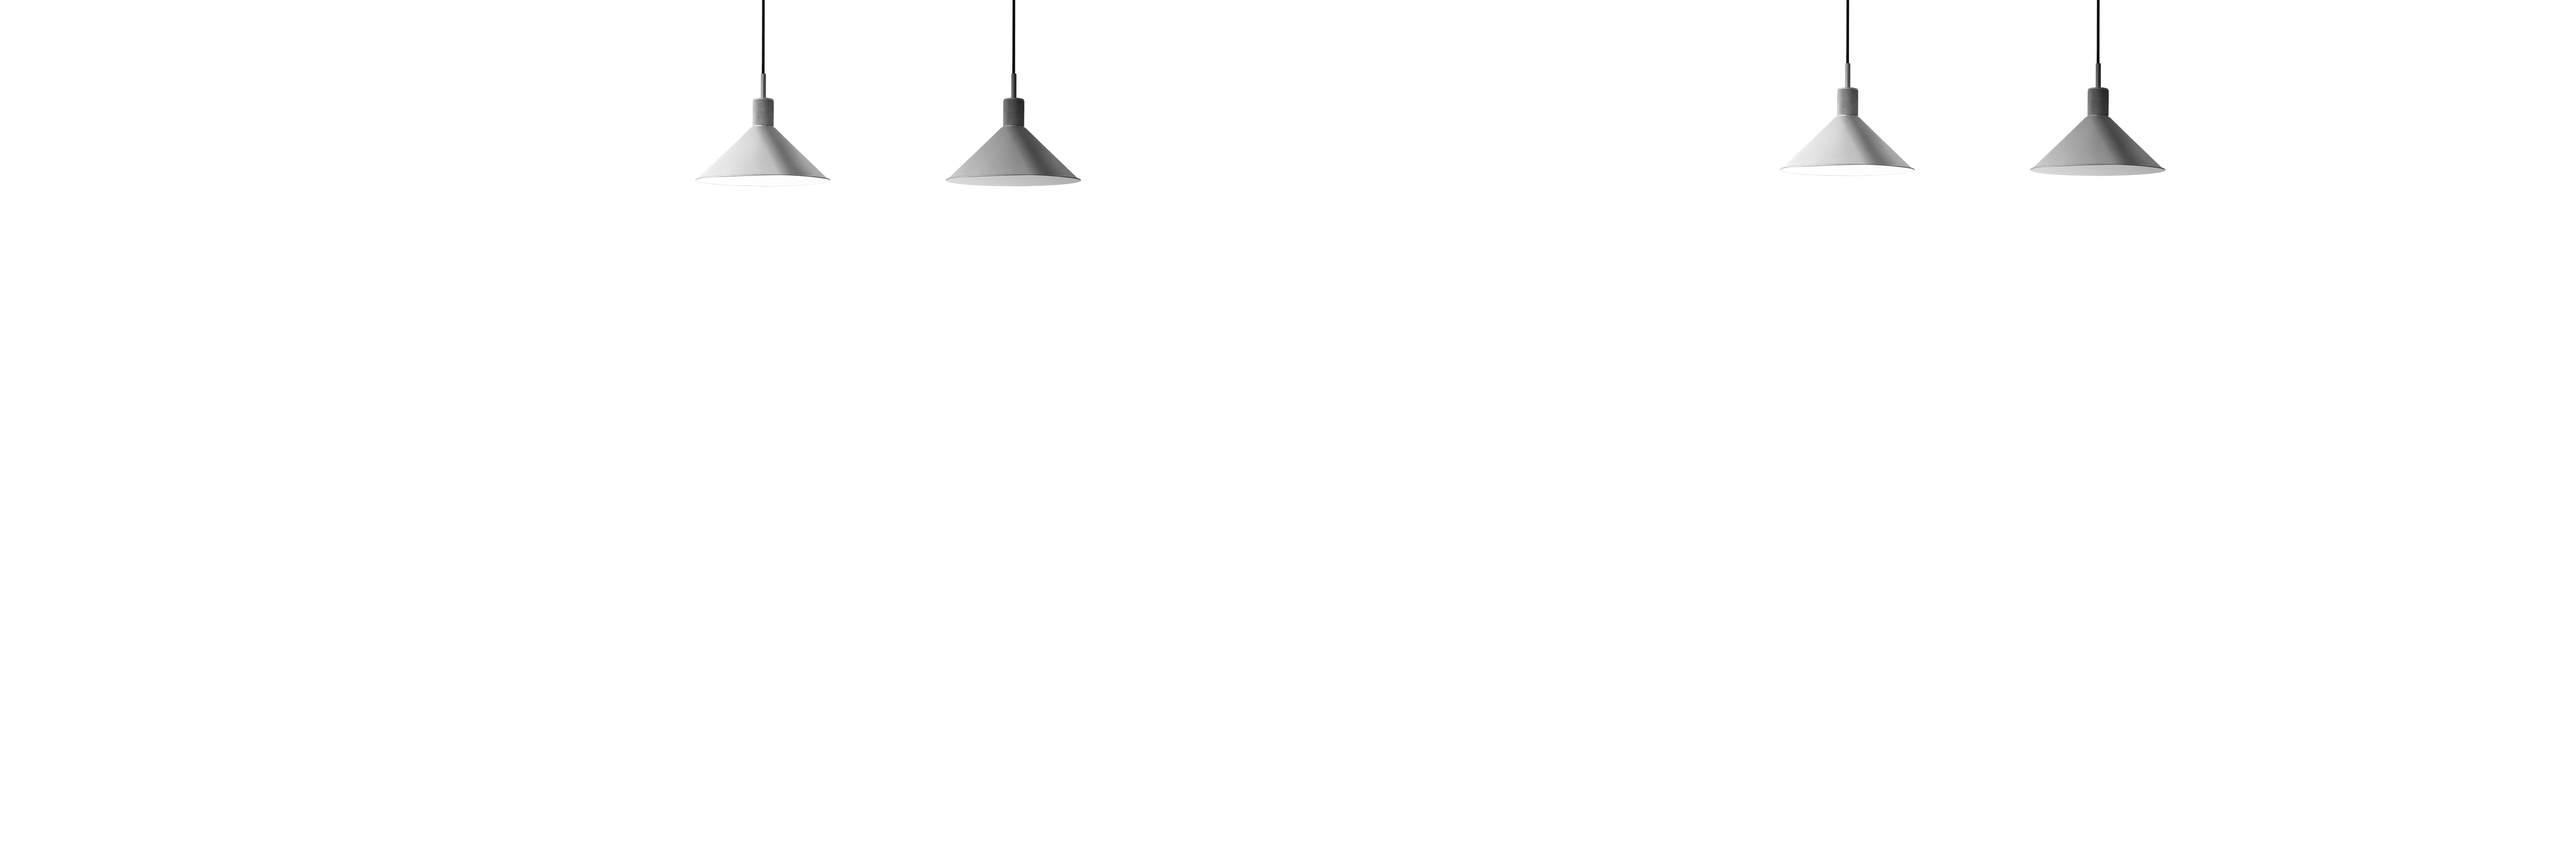
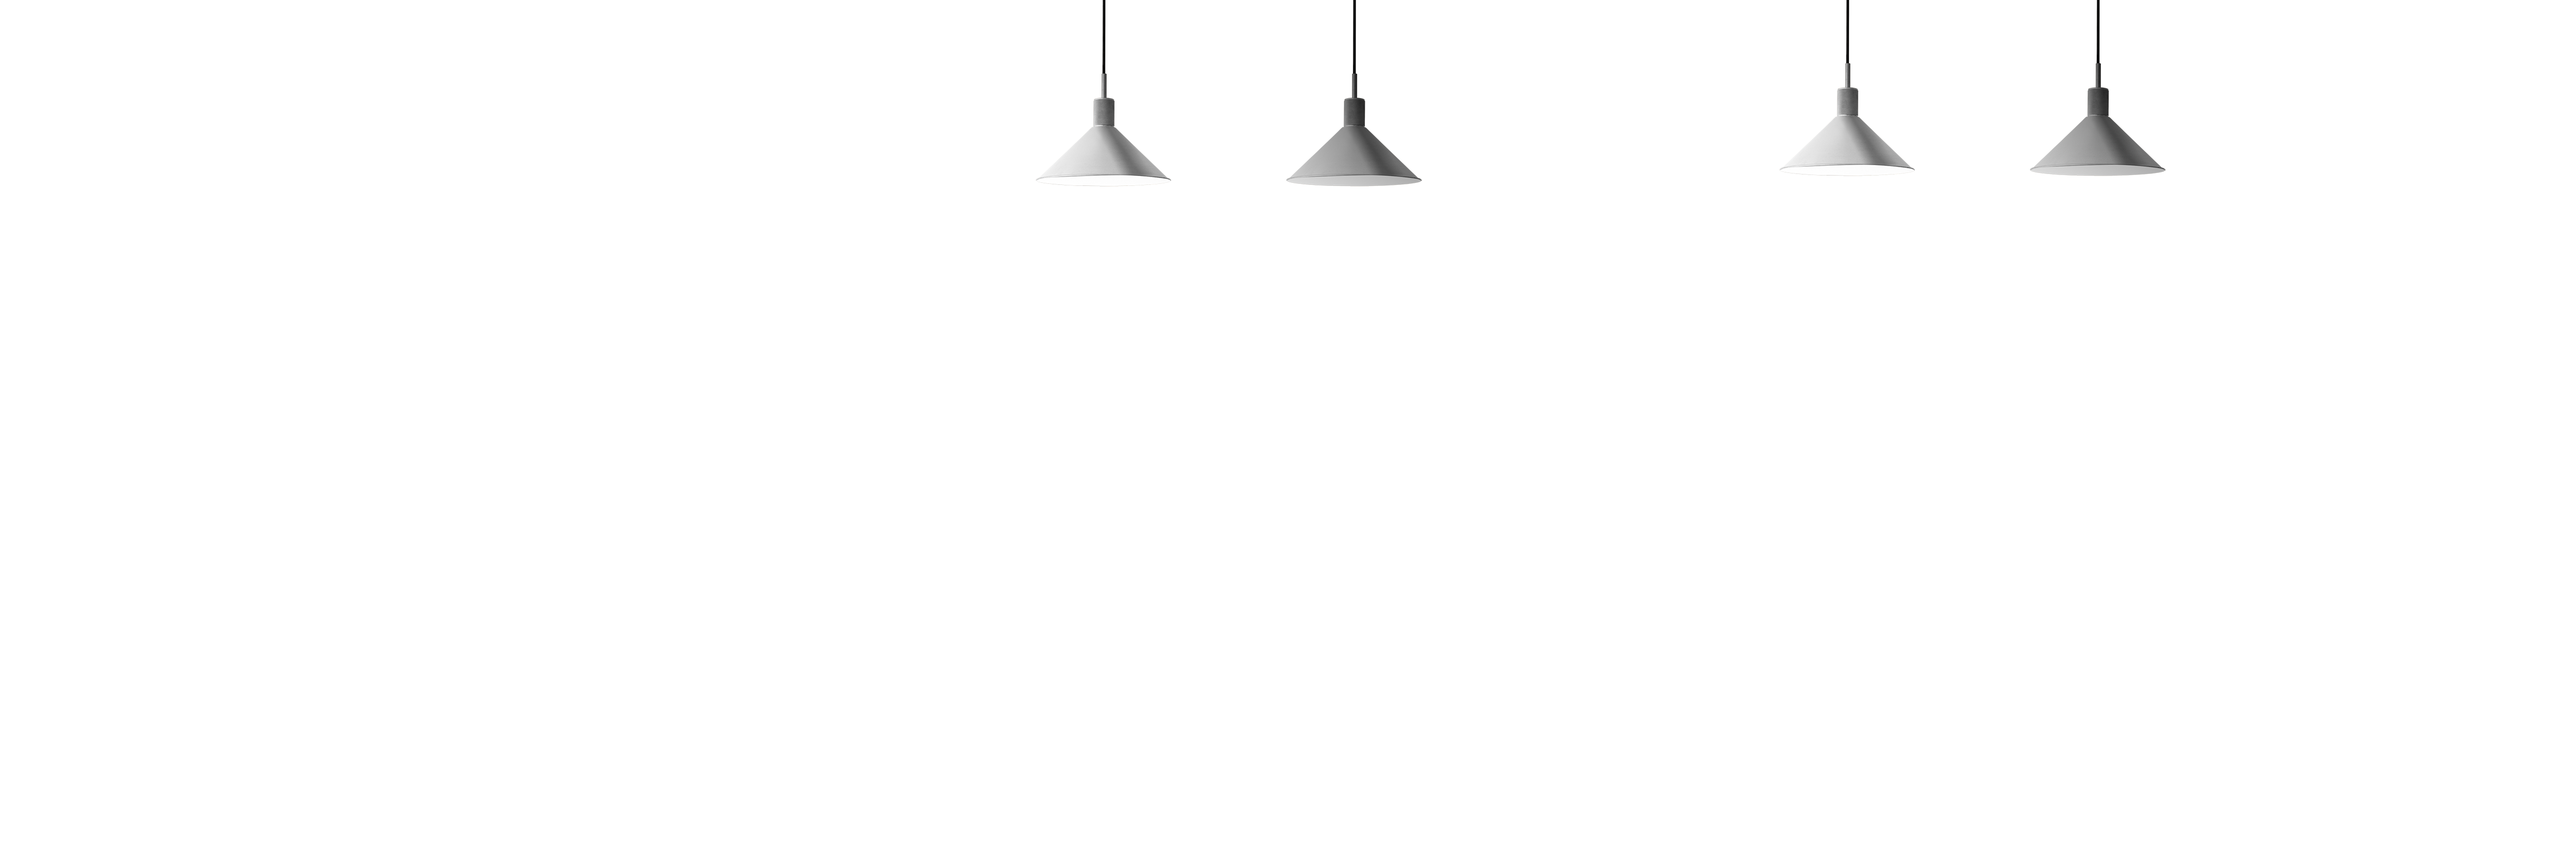
Update UI

Changed region(s): [[0.2812, 0.0925, 0.4688, 0.2158], [0.5, 0.0925, 0.5625, 0.2158]]

diff --git a/src/components/menu/MenuBar.tsx b/src/components/menu/MenuBar.tsx
@@ -1,12 +1,17 @@
 import { styled } from '@mui/material/styles';
 
 import { BottomNavigation, BottomNavigationAction } from '@mui/material';
-import RestoreIcon from '@mui/icons-material/Restore';
-import FavoriteIcon from '@mui/icons-material/Favorite';
-import LocationOnIcon from '@mui/icons-material/LocationOn';
+import HomeIcon from '@mui/icons-material/Home';
+import AppsIcon from '@mui/icons-material/Apps';
+import AlternateEmailIcon from '@mui/icons-material/AlternateEmail';
 
 const StyledBottomNavigation = styled(BottomNavigation)({
-    backgroundColor: 'transparent',
+    justifyContent: 'end',
+});
+
+const StyledBottomNavigationAction = styled(BottomNavigationAction)({
+    color: 'white',
+    backgroundColor: 'rgba(137, 165, 203, 0.20)',
 });
 
 interface MenuBarProps {
@@ -24,9 +29,12 @@ const MenuBar = (props: MenuBarProps) => {
             onChange={(_, newValue) => onSelectedMenuChange(newValue)}
             data-testid="menu"
         >
-            <BottomNavigationAction label="Recents" icon={<RestoreIcon />} />
-            <BottomNavigationAction label="Favorites" icon={<FavoriteIcon />} />
-            <BottomNavigationAction label="Nearby" icon={<LocationOnIcon />} />
+            <StyledBottomNavigationAction label="Home" icon={<HomeIcon />} />
+            <StyledBottomNavigationAction label="Apps" icon={<AppsIcon />} />
+            <StyledBottomNavigationAction
+                label="Contact"
+                icon={<AlternateEmailIcon />}
+            />
         </StyledBottomNavigation>
     );
 };

diff --git a/src/components/layout/Layout.tsx b/src/components/layout/Layout.tsx
@@ -1,8 +1,12 @@
 import MovingElement from './MovingElement';
+import TextElement from './TextElement';
 
 import Lamps from '../../assets/lamps.png';
-import Desk from '../../assets/desk.png';
+import Table from '../../assets/table.png';
 import Wall from '../../assets/wall.png';
+import Lamp from '../../assets/lamp.png';
+
+import { backgroundShift } from '../../utils/constants';
 
 interface LayoutProps {
     selectedMenu: number;
@@ -15,7 +19,12 @@ const Layout = (props: LayoutProps) => {
             <MovingElement
                 selectedMenu={selectedMenu}
                 image={Wall}
-                shift={80}
+                shift={backgroundShift}
+            />
+            <MovingElement
+                selectedMenu={selectedMenu}
+                image={Lamp}
+                shift={90}
             />
             <MovingElement
                 selectedMenu={selectedMenu}
@@ -24,9 +33,10 @@ const Layout = (props: LayoutProps) => {
             />
             <MovingElement
                 selectedMenu={selectedMenu}
-                image={Desk}
+                image={Table}
                 shift={160}
             />
+            <TextElement selectedMenu={selectedMenu} shift={backgroundShift} />
         </div>
     );
 };

diff --git a/src/components/layout/TextElement.tsx b/src/components/layout/TextElement.tsx
@@ -1,0 +1,39 @@
+import styled from 'styled-components';
+
+const StyledTextElement = styled.div<TextElementProps>`
+    position: absolute;
+    transition: left 2s;
+    top: 300px;
+    font-size: 50px;
+    max-width: 500px;
+    font-family: Lato;
+    left: ${(props) => 420 - props.selectedMenu * props.shift + 'px'};
+    @media (max-width: 768px) {
+        left: calc(
+            30% + ${(props) => 420 - props.selectedMenu * props.shift + 'px'}
+        );
+    }
+`;
+
+interface TextElementProps {
+    selectedMenu: number;
+    shift: number;
+}
+
+const titles = [
+    'Welcome!',
+    'This is first page',
+    'Another example of the text',
+];
+
+const TextElement = (props: TextElementProps) => {
+    const { selectedMenu, shift } = props;
+
+    return (
+        <StyledTextElement selectedMenu={selectedMenu} shift={shift}>
+            {titles[selectedMenu]}
+        </StyledTextElement>
+    );
+};
+
+export default TextElement;

diff --git a/src/utils/constants.ts b/src/utils/constants.ts
@@ -1,0 +1,1 @@
+export const backgroundShift = 70;
